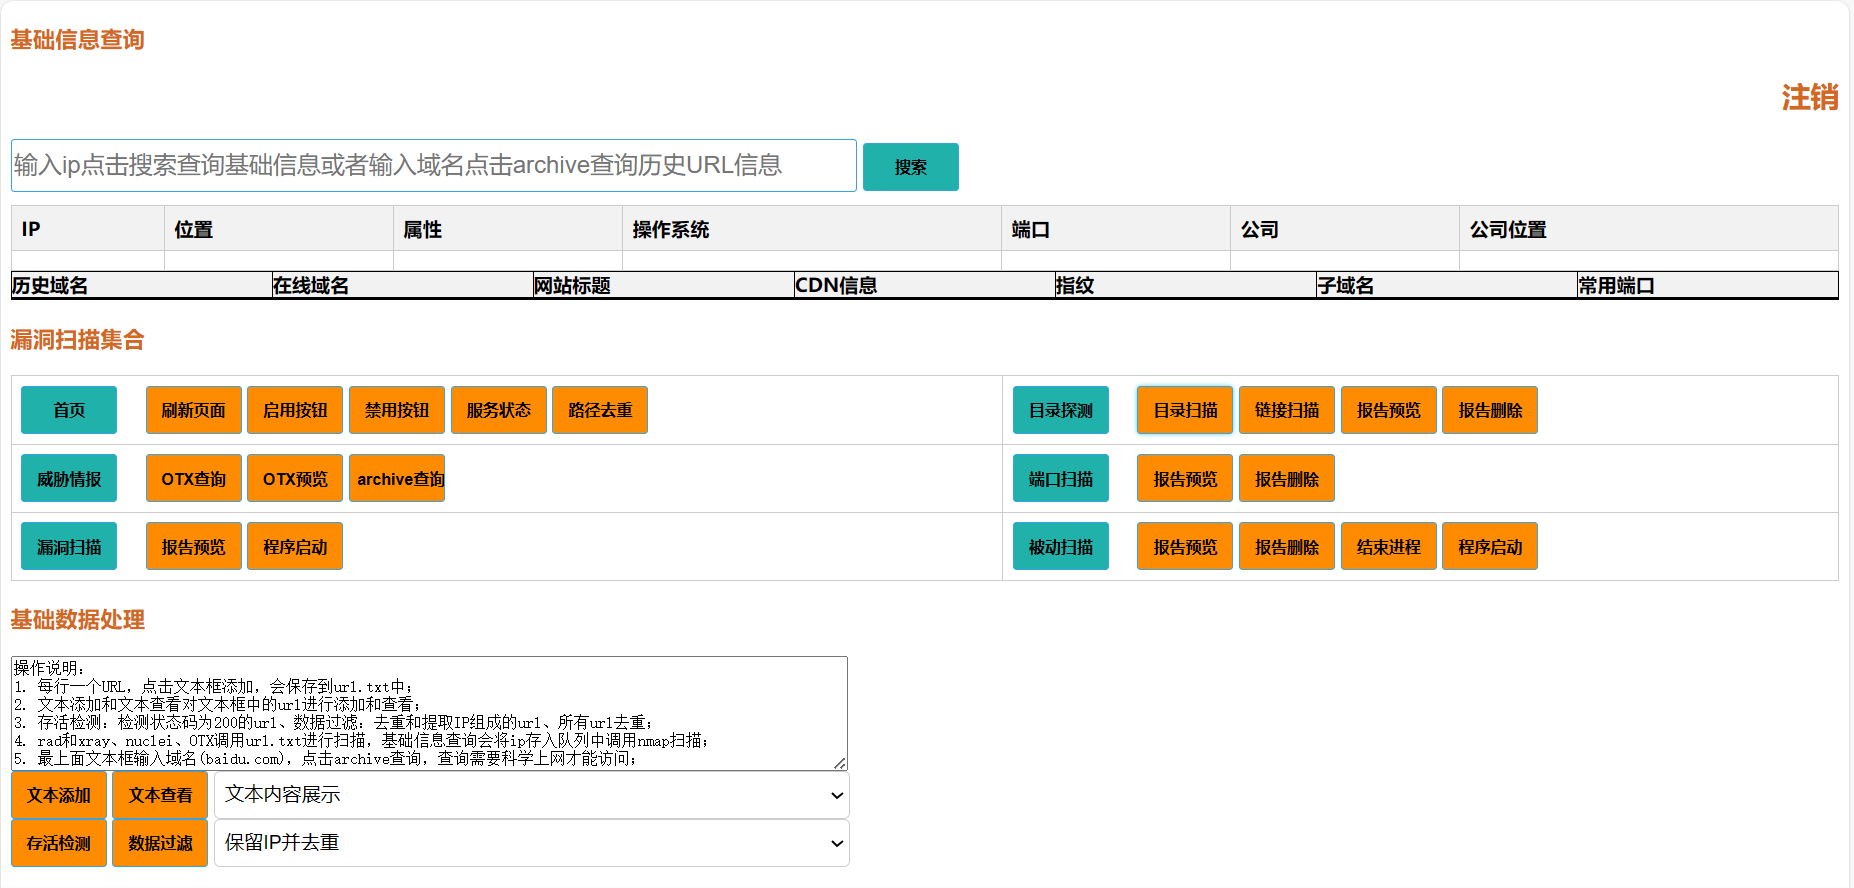
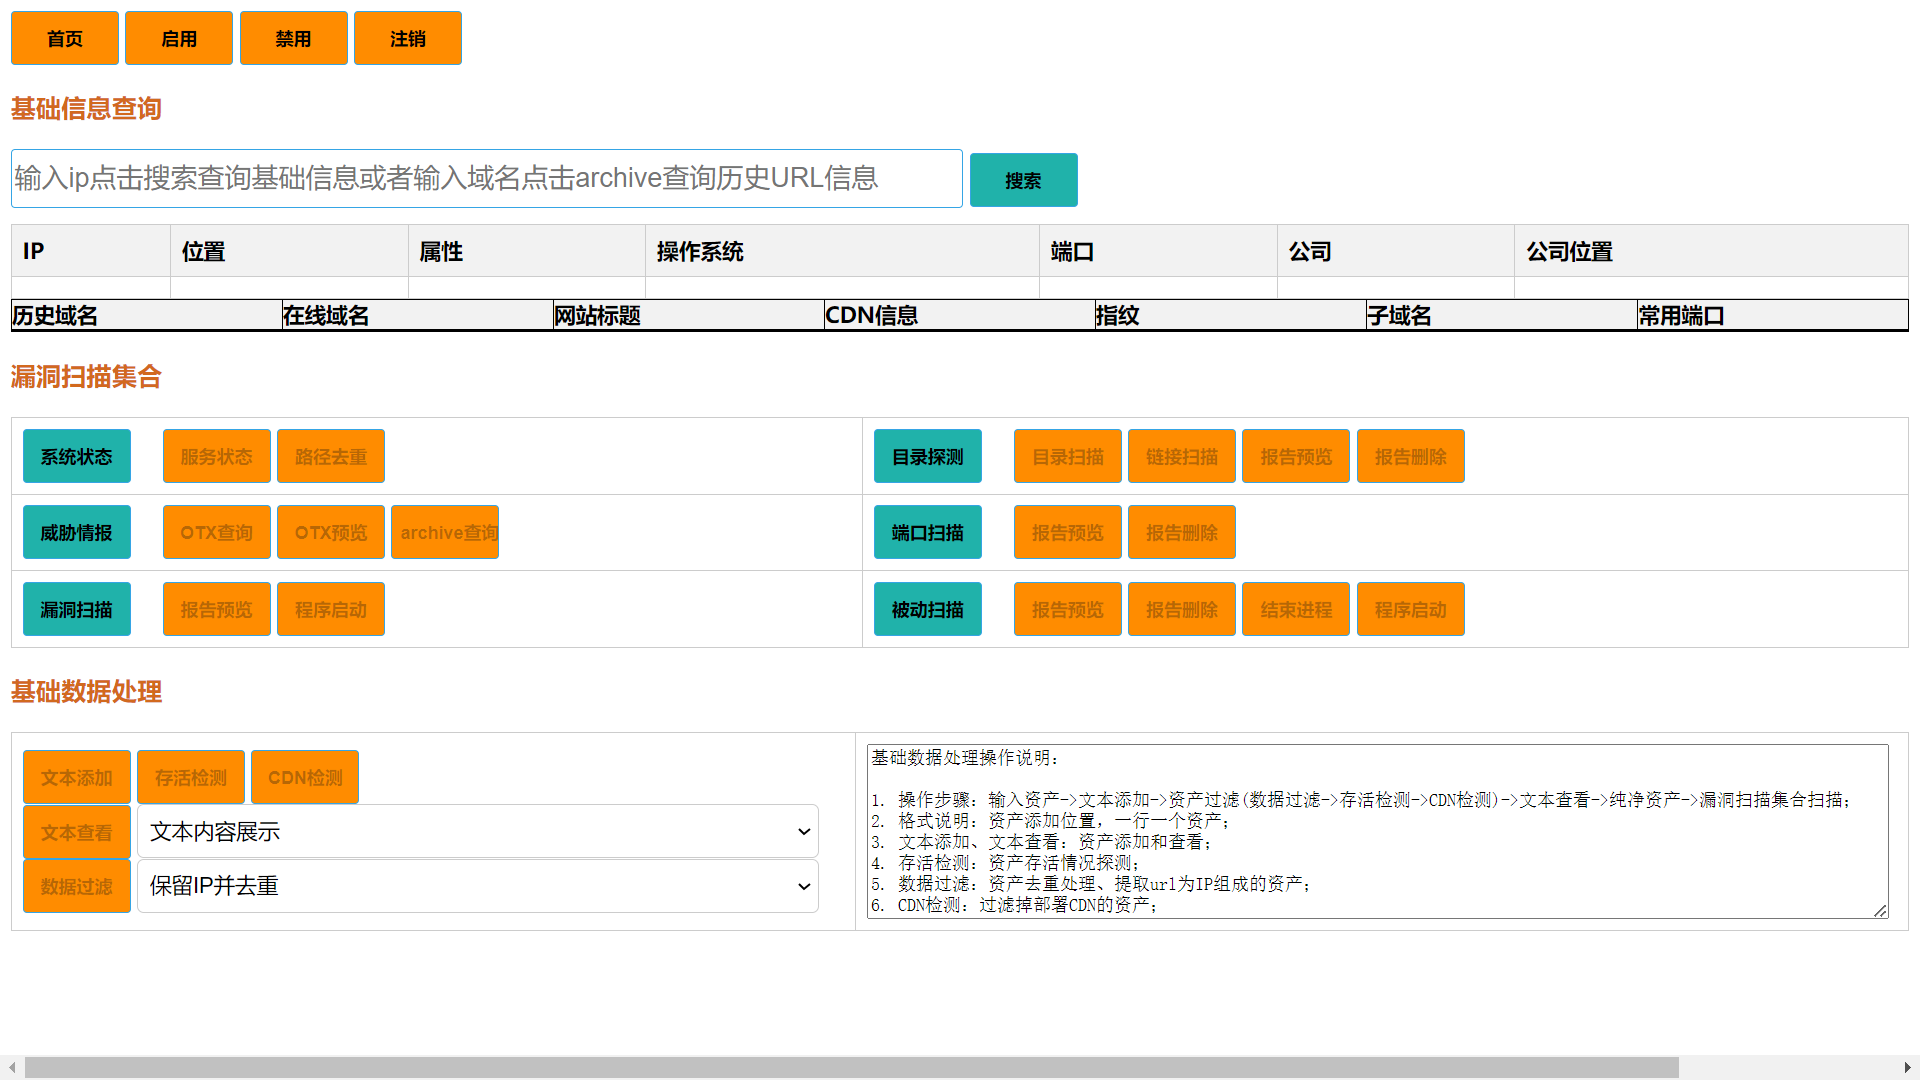
资产cdn检测、前端页面整体调整

diff --git a/templates/index.html b/templates/index.html
@@ -11,8 +11,11 @@
 </head>
 
 <body>
+	<input type="button" value="首页" onclick="fanhui()">
+	<input type="button" value="启用" onclick="startbutton()">
+	<input type="button" value="禁用" onclick="stopbutton()">
+	<input type="button" value="注销" onclick="signoutfunc()">
 	<h3>基础信息查询</h3>
-	<h2 onclick="signoutfunc()">注销</h2>
 	<div style="width:1600px;height:34px;margin:10px auto 0 auto;">
 		<form method="post" action="/ipscaninterface/">
 			<input type="text" name="ip" placeholder="输入ip点击搜索查询基础信息或者输入域名点击archive查询历史URL信息" value="{{data2}}"
@@ -115,10 +118,7 @@
 	<table border="1">
 		<tr>
 			<td>
-				<input type="submit" value="首页">&nbsp;&nbsp;&nbsp;&nbsp;
-				<input type="button" value="刷新页面" onclick="fanhui()">
-				<input type="button" value="启用按钮" onclick="startbutton()">
-				<input type="button" value="禁用按钮" onclick="stopbutton()">
+				<input type="submit" value="系统状态">&nbsp;&nbsp;&nbsp;&nbsp;				
 				<input type="button" id="button2" value="服务状态" onclick="statusnmapfunc()" disabled>
 				<input type="button" id="button4" value="路径去重" onclick="uniqdirfunc()" disabled>
 				
@@ -159,32 +159,43 @@
 				<input type="button" id="button15" value="结束进程" onclick="killxrayandradfunc()" disabled>
 				<input type="button" id="button16" value="程序启动" onclick="startradandxray()" disabled>
 			</td>
-
 		</tr>
 	</table>
 
 	<h3>基础数据处理</h3>
-	<textarea rows="6" cols="101" id="myTextarea">操作说明：
-1. 每行一个URL，点击文本框添加，会保存到url.txt中；
-2. 文本添加和文本查看对文本框中的url进行添加和查看；
-3. 存活检测：检测状态码为200的url、数据过滤：去重和提取IP组成的url、所有url去重；
-4. rad和xray、nuclei、OTX调用url.txt进行扫描，基础信息查询会将ip存入队列中调用nmap扫描；
-5. 最上面文本框输入域名(baidu.com)，点击archive查询，查询需要科学上网才能访问；</textarea><br>
-	<input type="button" id="button3" value="文本添加" onclick="sendtextareadata()" disabled>
-	<input type="button" id="button17" value="文本查看" onclick="textinfoshowfunc()" disabled>
+	<table border="1">
+		<tr>
+			<td>
+				<input type="button" id="button3" value="文本添加" onclick="sendtextareadata()" disabled>
+				<input type="button" id="button20" class="hover-color" name="commit" value="存活检测" onclick="filterstatuscodefunc()" disabled>
+				<input type="button" id="button24" value="CDN检测" onclick="filtercdndatafunc()" disabled><br>
+
+				<input type="button" id="button17" value="文本查看" onclick="textinfoshowfunc()" disabled>
 	<select id="opbyid3">
 		<option>文本内容展示</option>
 	</select>
 	&nbsp;&nbsp;<span id="span1"></span>
 	<br>
-	<input type="button" id="button20" class="hover-color" name="commit" value="存活检测" onclick="filterstatuscodefunc()"
-		disabled>
+	
 	<input type="button" id="button19" class="hover-color" name="commit" value="数据过滤" onclick="filedeweightingfunc()"
 		disabled>
 	<select name="fileqingxiname">
 		<option value="1">保留IP并去重</option>
 		<option value="2">保留所有并去重</option>
 	</select>
-</body>
+			</td>
+			<td>
+				<textarea rows="8" cols="110" id="myTextarea">基础数据处理操作说明：
 
+1. 操作步骤：输入资产->文本添加->资产过滤(数据过滤->存活检测->CDN检测)->文本查看->纯净资产->漏洞扫描集合扫描；
+2. 格式说明：资产添加位置，一行一个资产；
+3. 文本添加、文本查看：资产添加和查看；
+4. 存活检测：资产存活情况探测；
+5. 数据过滤：资产去重处理、提取url为IP组成的资产；
+6. CDN检测：过滤掉部署CDN的资产；</textarea>
+			</td>
+		</tr>
+	</table>
+	
+</body>
 </html>

diff --git a/static/js/common.js b/static/js/common.js
@@ -69,13 +69,13 @@ function statusnmapfunc() {
 
 //xray报告预览
 function xrayreportshow() {
-    window.open("http://121.37.207.248:18888/", "_blank");
+    window.open("http://ip:18888/", "_blank");
 }
 
 
 //urlfinder报告预览
 function urlfinderreportshow() {
-    window.open("http://121.37.207.248:16666/", "_blank");
+    window.open("http://ip:16666/", "_blank");
 }
 
 
@@ -326,6 +326,8 @@ function startbutton(){
     button22.disabled = false;
     var button23 = document.getElementById("button23");
     button23.disabled = false;
+    var button24 = document.getElementById("button24");
+    button24.disabled = false;
 }
 
 //禁用按钮
@@ -373,13 +375,15 @@ function stopbutton(){
     button22.disabled = true;
     var button23 = document.getElementById("button23");
     button23.disabled = true;
+    var button24 = document.getElementById("button24");
+    button24.disabled = true;
 
 }
 
 
 //跳转到目录扫描页面
 function jumpdirscanpage() {
-    window.open("http://121.37.207.248:17777/dirscanpage/", "_blank");
+    window.open("http://ip:17777/dirscanpage/", "_blank");
 }
 
 
@@ -460,4 +464,24 @@ function signoutfunc() {
         }
     })
     window.location.href = "/index/";
+}
+
+
+//CDN检测
+function filtercdndatafunc() {
+    $.ajax({
+        url: '/cdn_service_recogize/',
+        method: 'GET',
+    
+        success: function (res) {
+            console.log(res)
+            console.log('CDN检测成功点击文本查看最新数据')
+        },
+        error: function () {
+            alert('存活检测出现错误')
+        },
+        complete: function () {
+            alert('CDN检测成功点击文本查看最新数据')
+        }
+    })
 }

diff --git a/static/css/common.css b/static/css/common.css
@@ -99,7 +99,7 @@
 		}
 
 		select {  
-            width: 530px; /* 设置宽度为200像素 */  
+            width: 505px; /* 设置宽度为200像素 */  
             height: 40px; /* 设置高度为40像素 */  
             padding: 5px; /* 设置内边距为5像素，这可以增加选项之间的空间 */  
             font-size: 16px; /* 设置字体大小为16像素 */  
@@ -116,7 +116,7 @@
 		}  
 
 		h2 {  
-			color:chocolate;  
-			text-align: right;
+			color:darkorange;  
+			text-align: left;
 			cursor: pointer;
 		}  

diff --git a/scan_main_web.py b/scan_main_web.py
@@ -500,9 +500,17 @@ def cdn_service_recogize():
                     rule_cdn_domain_list.append(domain)
                 else:
                     rule_nocdn_domain_list.append(domain)
-            print(rule_cdn_domain_list)
-            print(rule_nocdn_domain_list)
-           
+            
+            # 不存在cdn列表
+            no_cdn_list_result = []
+            for nocdn in rule_nocdn_domain_list:
+                nocdnresult = os.popen('bash ./finger.sh recognize_no_cdn'+' '+nocdn).read().strip()
+                no_cdn_list_result.append(nocdnresult)
+            #列表写入到url.txt
+            f = open(file='/TIP/batch_scan_domain/url.txt',mode='w')
+            for fileline in no_cdn_list_result:
+                f.write(str(fileline)+"\n")
+            # print(no_cdn_list_result)
 
         except Exception as e:
             print("捕获到异常:",e)
